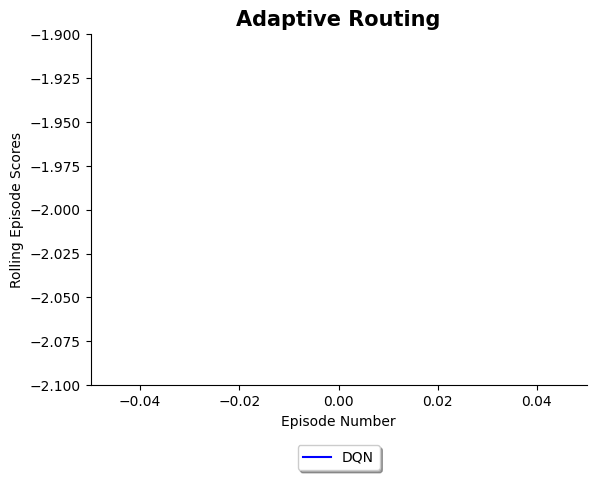
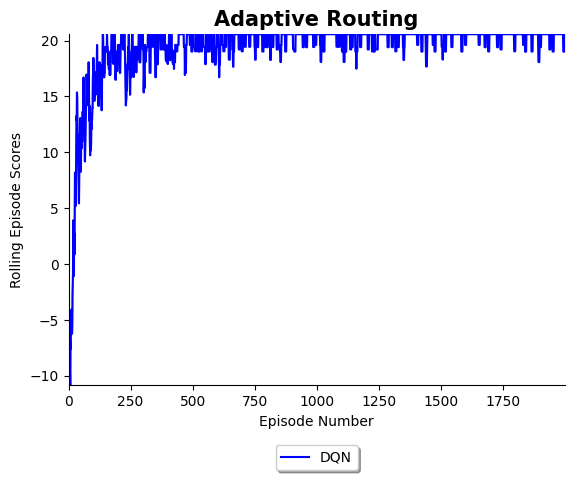
Multi Agent fixed, V0

diff --git a/agents/DQN_agents/DQN_multi_agent.py b/agents/DQN_agents/DQN_multi_agent.py
@@ -88,31 +88,64 @@ class DQN(Base_Agent):
 
     def compute_loss(self, states, next_states, rewards, actions, dones):
         """Computes the loss required to train the Q network"""
+        agent_id=self.get_agent_id(states[0].unsqueeze(0))
+
         with torch.no_grad():
             Q_targets = self.compute_q_targets(next_states, rewards, dones)
-        Q_expected = self.compute_expected_q_values(states, actions)
+        
+        Q_expected = self.compute_expected_q_values(agent_id, states, actions)
         loss = F.mse_loss(Q_expected, Q_targets)
         return loss
 
     def compute_q_targets(self, next_states, rewards, dones):
         """Computes the q_targets we will compare to predicted q values to create the loss to train the Q network"""
-        Q_targets_next = self.compute_q_values_for_next_states(next_states)
+        Q_targets_next = self.compute_q_values_for_next_states(next_states,dones)
         Q_targets = self.compute_q_values_for_current_states(rewards, Q_targets_next, dones)
         return Q_targets
 
-    def compute_q_values_for_next_states(self, next_states):
+    def compute_q_values_for_next_states(self, next_states,dones):
         """Computes the q_values for next state we will use to create the loss to train the Q network"""
-        # divide the next-states into batches with different agent_id
-        # compute the q-target-next
-        # return results in order
-         # or
-        #I can forget about batches and performance, just compute q-targets one by one
-        # TODO: change for batches
-
-        for state in next_states:
+                                                                                                # divide the next-states into batches with different agent_id
+                                                                                                # compute the q-target-next
+                                                                                                # return results in order
+                                                                                                 # or
+                                                                                                #I can forget about batches and performance, just compute q-targets one by one
+                                                                                                # TODO: change for batches
+        
+        batch_size=next_states.size()[0]
+        Q_targets_next=torch.zeros(batch_size,1).to(self.device)
+        
+        masks_dic={}
+        for i in range(0,batch_size):
+            if dones[i]==1:
+                continue
+            state=next_states[i]
+            state=torch.unsqueeze(state,0)
             agent_id=self.get_agent_id(state)
-            Q_targets_next = self.agent_dic[agent_id](state)["NN"].detach().max(1)[0].unsqueeze(1)
+
+            if not agent_id in masks_dic:
+                masks_dic[agent_id]={} 
+                masks_dic[agent_id]["mask"]=[False]*batch_size
+                masks_dic[agent_id]["index"]=[]
+            
+            masks_dic[agent_id]["mask"][i]=True
+            masks_dic[agent_id]["index"].append(i)
+                
+
+        for agent_id in masks_dic:
+            agent_mask=torch.Tensor(masks_dic[agent_id]["mask"]).unsqueeze(1).to(self.device,dtype=torch.bool)
+            agent_states=next_states[masks_dic[agent_id]["index"]]
+            agent_Q_targets_next=self.agent_dic[agent_id]["NN"](agent_states).detach().max(1)[0].unsqueeze(1)
+            Q_targets_next.masked_scatter_(agent_mask,agent_Q_targets_next)
+
         return Q_targets_next
+
+                                                                                                        # max(1): find the max in every row of the batch
+                                                                                                        # max(0): find the max in every column of the batch
+                                                                                                        # max(1)[0]: value of the max in every row of the batch
+                                                                                                        # max(1)[1]: index of the max in every row of the batch
+        
+        
 
     def compute_q_values_for_current_states(self, rewards, Q_targets_next, dones):
         """Computes the q_values for current state we will use to create the loss to train the Q network"""
@@ -120,10 +153,10 @@ class DQN(Base_Agent):
         Q_targets_current = rewards + (self.hyperparameters["discount_rate"] * Q_targets_next * (1 - dones))
         return Q_targets_current
 
-    def compute_expected_q_values(self, states, actions):
+    def compute_expected_q_values(self, agent_id, states, actions):
         """Computes the expected q_values we will use to create the loss to train the Q network"""
-        agent_id=self.get_agent_id(state)
-        Q_expected = self.agent_dic[agent_id](state)["NN"].gather(1, actions.long()) #must convert actions to long so can be used as index
+        
+        Q_expected = self.agent_dic[agent_id]["NN"](states).gather(1, actions.long()) #must convert actions to long so can be used as index
         return Q_expected
 
     def locally_save_policy(self):
@@ -144,4 +177,3 @@ class DQN(Base_Agent):
         experiences = memory.sample()
         states, actions, rewards, next_states, dones = experiences
         return states, actions, rewards, next_states, dones
-

diff --git a/environments/Adaptive_Routing_Environment.py b/environments/Adaptive_Routing_Environment.py
@@ -58,7 +58,7 @@ class Adaptive_Routing_Environment(gym.Env):
 		self.trials = 5
 		self.Log=Log
 		self.skip_routing=skip_routing
-		self.manual_drive_route=[0,2,2,0,1,1]
+		self.manual_drive_route=[2,2,2,0,1,1]
 		self.iteration=-1
 		self.manual_drive=False
 
@@ -115,7 +115,7 @@ class Adaptive_Routing_Environment(gym.Env):
 				continue
 
 			self.transit_env_vc(vc)
-# BUG
+
 			if self.vehicles[vc]["memory0"]["valid"]:
 				self.add_to_next_trans_for_routing(vc)
 
@@ -150,6 +150,14 @@ class Adaptive_Routing_Environment(gym.Env):
 				self.vehicles[vc]["memory2"]["action"],
 				self.vehicles[vc]["memory1"]["road"],
 				reward)
+		
+		state=self.utils.reshape(self.get_state(vc,"memory2"),vc)
+		road_id=self.utils.state2road(state)
+		try:
+			assert(road_id in self.lanes_dic)
+		except:
+			breakpoint()
+		
 		self.states.append(self.utils.reshape(self.get_state(vc,"memory2"),vc))
 		self.acts.append(self.vehicles[vc]["memory2"]["action"])
 		# TODO: bug here
@@ -189,7 +197,8 @@ class Adaptive_Routing_Environment(gym.Env):
 			}
 		else:
 			if self.Log:
-					print("vehicle "+vc+" changed its line")
+				print("vehicle "+vc+" changed its line")
+				# breakpoint()
 			# self.vehicles[vc]["previous_road"]=self.vehicles[vc]["road"]
 			try:
 				self.vehicles[vc]["memory2"]=None if self.vehicles[vc]["memory1"]==None else self.vehicles[vc]["memory1"].copy()
@@ -253,7 +262,6 @@ class Adaptive_Routing_Environment(gym.Env):
 				print("moving reward: "+ str(reward))
 
 		return False,reward
-
 
 	def seed(self, seed=None):
 		self.np_random, seed = seeding.np_random(seed)

diff --git a/results/Adaptive_Routing.py b/results/Adaptive_Routing.py
@@ -33,13 +33,13 @@ device = torch.device("cuda" if torch.cuda.is_available() else "cpu") #device is
 config = Config()
 config.seed = 1
 
-config.environment = Adaptive_Routing_Environment(dim=3,encode="one_hot",Num_Flows=1,skip_routing=[],Max_Sim_Time=200,device=device,Log=True)
+config.environment = Adaptive_Routing_Environment(dim=3,encode="one_hot",Num_Flows=1,skip_routing=[],Max_Sim_Time=600,device=device,Log=False)
 # breakpoint()
 # num_possible_states =config.environment.utils.get_state_diminsion()
 # embedding_dimensions = [[num_possible_states, 20]]
 # print("Num possible states ", num_possible_states)
 
-config.num_episodes_to_run = 1
+config.num_episodes_to_run = 2000
 config.file_to_save_data_results = "Data_and_Graphs/Adaptive_Routing.pkl"
 config.file_to_save_results_graph = "Data_and_Graphs/Adaptive_Routing.png"
 config.show_solution_score = False
@@ -56,8 +56,8 @@ config.hyperparameters = {
     "DQN_Agents": {
         "linear_hidden_units": [30, 10],
         "learning_rate": 0.01,
-        "buffer_size": 40000,
-        "batch_size": 256,
+        "buffer_size": 10000,
+        "batch_size": 64,
         "final_layer_activation": "None",
         # "columns_of_data_to_be_embedded": [0],
         # "embedding_dimensions": embedding_dimensions,

diff --git a/agents/Base_Agent.py b/agents/Base_Agent.py
@@ -292,6 +292,11 @@ class Base_Agent(object):
         """Saves the recent experience to the memory buffer"""
         for state,action,reward,next_state,done in zip(self.mem_states,self.mem_actions,self.mem_rewards,self.mem_next_states,self.mem_done):
             agent_id=self.get_agent_id(state)
+            try:
+                assert(agent_id in self.lanes_dic)
+            except:
+                breakpoint()
+                
             experience = state, action, reward, next_state, done
             self.agent_dic[agent_id]["memory"].add_experience(*experience)
 
